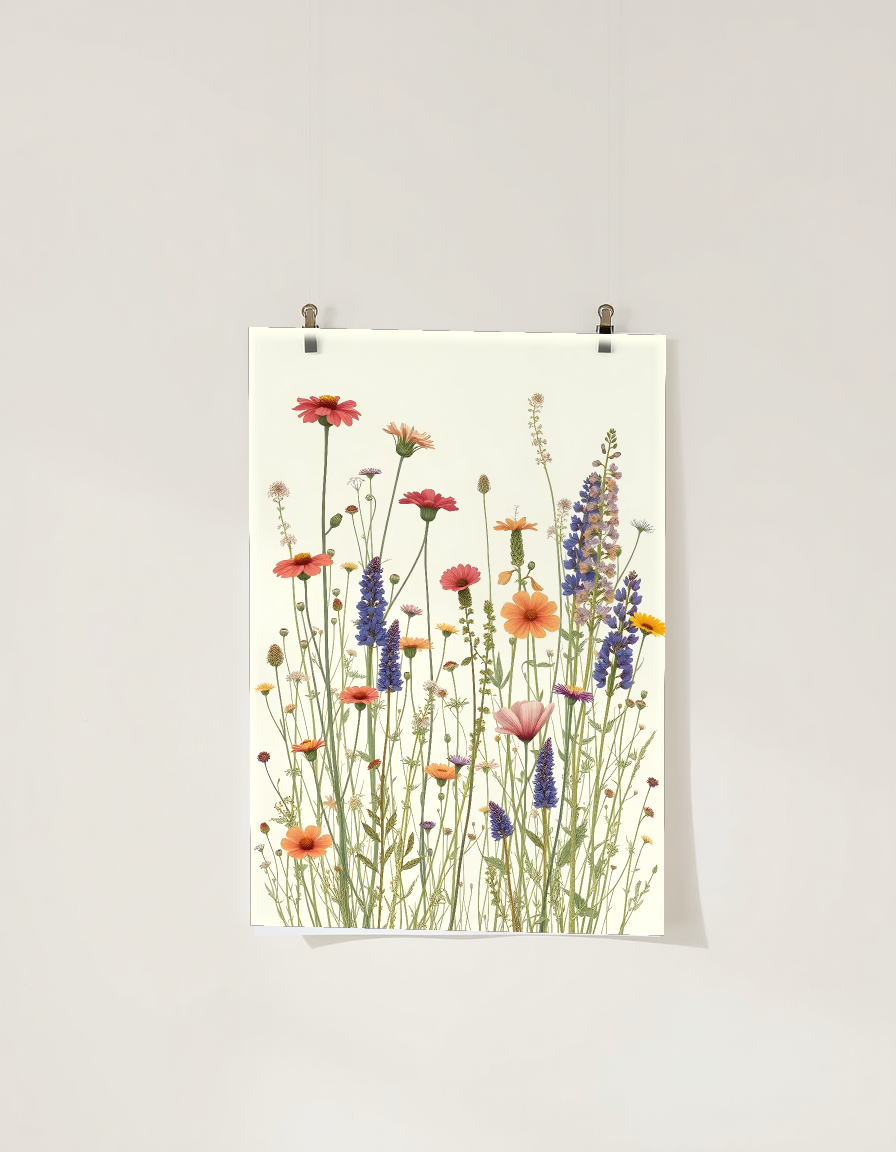
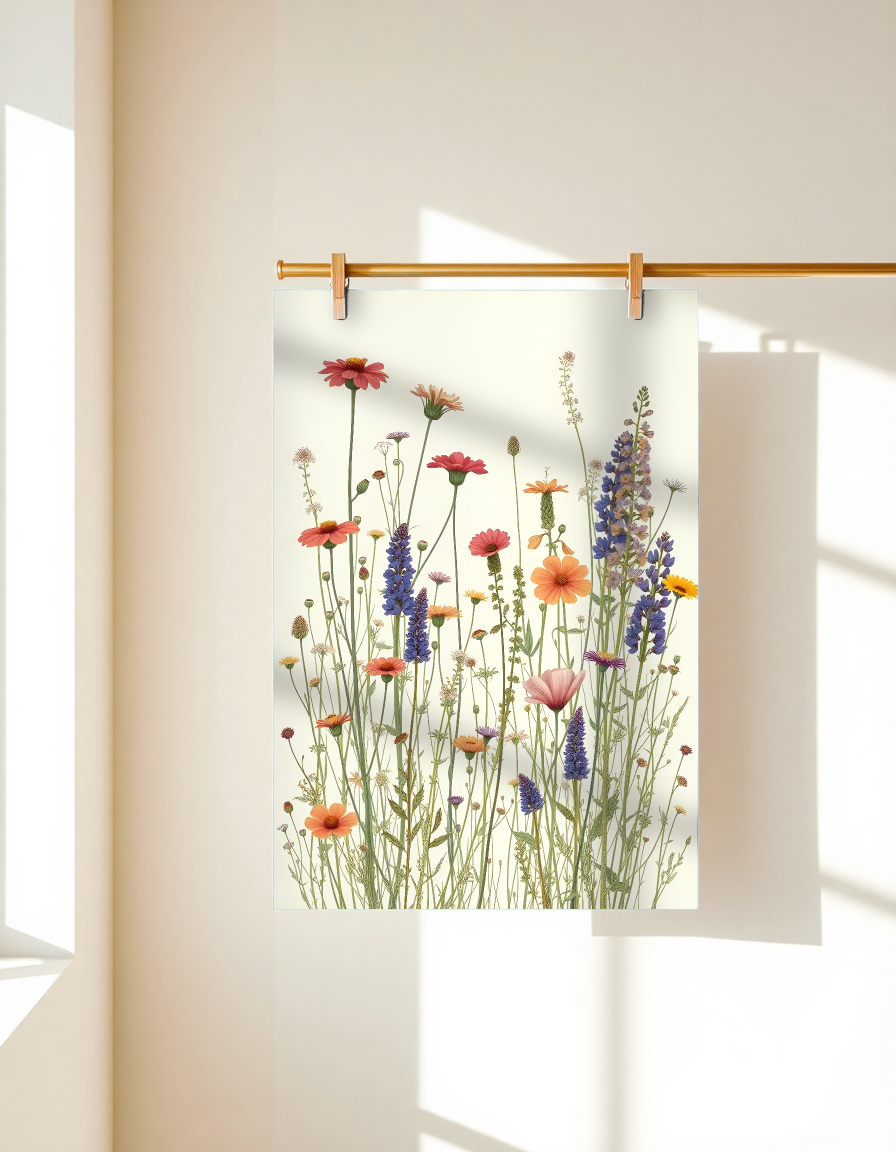
fix(gl6): the overlay was repainting the whole photograph - mask it, and gate it
Independent review of the GL-21/GL-6 attempt-3 session. The compositor work
(C1/C2/C3) reproduced exactly and needed no change; the four bundles it gated
did.

scene_author.py wrote overlay.png as black at alpha (1 - gain_map) over the full
frame. gain_map is a normalised convolution, so away from the panel its
numerator vanishes, g clamps to GAIN_FLOOR=0.55, and the overlay carried a flat
alpha of 115/255 across every pixel the print does not cover. Measured outside
the matte: 668k-775k px per scene changed by a mean of 67-94/255. Every cream
sunlit wall rendered grey, and a rounded-rect halo glowed around every print -
which is most of what the findings doc attributed to a FLUX "backing slab",
since it is on the two seeded scenes too, whose backgrounds are unchanged
attempt-1 photographs. A regression from this session: the same bundle's
attempt-1 overlay measures alpha mean 3.5 over 32% of the frame.

The gate could not see it because all six detectors measure the print. The
bundle owns three layers and the gate looked at one. 6/6 green while two thirds
of the frame was wrong; the full-frame review that should have caught the rest
was done against the composite, where the wash is plausible - it is only obvious
against background.png.

- scene_author.py: overlay alpha is (1 - g) * matte. The gain map only relights
  pixels the art covers, so outside the matte it has nothing to do. Fixed at the
  source, not in the assets.
[…]

diff --git a/scripts/mockup_qa.py b/scripts/mockup_qa.py
@@ -15,6 +15,10 @@ Six detectors, each aimed at a defect that shipped past a human review:
   silhouette-vs-shadow  the photographed object's silhouette and the print's
                       silhouette must not disagree *unevenly* - a constant
                       margin is styling, a bowing gap is a curled-paper mismatch
+  scene-fidelity      outside the print, the composite must still be the
+                      photograph. The other six all look at the print, and P3
+                      shipped four bundles whose overlay repainted ~700k px of
+                      *scene* per frame at 6/6 green
 
 `demo` re-runs every detector against a bundle that is known to carry its
 defect: a detector that cannot see a known defect is not a detector.
@@ -65,6 +69,12 @@ EDGE_MIN = 20.0         # Sobel magnitude that counts as a real photographic edg
 FLOATING_MAX = 0.10     # fraction of the print boundary allowed to sit on no edge at
                         # all (corners, occluder junctions). Derived mattes measure
                         # 0.00-0.03; every hand-drawn quad from attempts 1-2, 0.74-1.00.
+SCENE_TOL = 4           # 0-255 per-channel drift allowed outside the print. The
+                        # overlay is a rounding-free alpha composite over the
+                        # background, so a legitimate zero-alpha pixel drifts by 0.
+SCENE_BUDGET = 0.001    # x the outside-print area: the gain map is allowed to
+                        # feather a few px past the matte for contact shadow.
+                        # The defect this guards was 65% of the frame.
 COVERAGE_TOL = 0.0005   # fraction of the print area allowed to read as un-printed:
                         # an anti-aliased rim always leaves a few px indistinguishable
                         # from the background. Attempt 2's occluder notches were 5.1%.
@@ -316,8 +326,29 @@ def d_silhouette_vs_shadow(p: dict) -> dict:
                     f"(limit {FLOATING_MAX:.0%})")
 
 
+def d_scene_fidelity(p: dict) -> dict:
+    """Outside the print, the composite must still be the photograph.
+
+    The bundle owns three layers and only one of them is the print; the other
+    six detectors all measure the print, so nothing stopped an overlay from
+    repainting the scene. P3's did: `gain_map` is a normalised convolution whose
+    numerator vanishes away from the panel, so g clamped to its floor and the
+    overlay carried a full-frame black wash at alpha 115/255 - grey walls, a
+    rounded halo round every print, ~700k px per scene - through a 6/6 green
+    gate. Measured against the bare background, so it catches any future repaint
+    band, stamped prop or vignette, not just this one."""
+    outside = ~cv2.dilate(_print_region(p).astype(np.uint8),
+                          np.ones((5, 5), np.uint8)).astype(bool)
+    delta = np.abs(p["bare"] - p["bg"]).max(axis=2)
+    n = int((outside & (delta > SCENE_TOL)).sum())
+    budget = int(SCENE_BUDGET * max(outside.sum(), 1))
+    return _finding("scene-fidelity", n <= budget, n,
+                    f"{n} px of scene repainted outside the print "
+                    f"(max {delta[outside].max():.0f}/255, budget {budget})")
+
+
 DETECTORS = ["fringe", "key-spill", "distortion", "coverage",
-             "occluder-opacity", "silhouette-vs-shadow"]
+             "occluder-opacity", "silhouette-vs-shadow", "scene-fidelity"]
 
 
 def check(bundle_dir: Path, art: Image.Image) -> dict:
@@ -327,7 +358,7 @@ def check(bundle_dir: Path, art: Image.Image) -> dict:
     prov = bundle_dir / "scene.json"
     key = json.loads(prov.read_text()).get("key_rgb") if prov.exists() else None
     findings = [d_fringe(p), d_key_spill(p, key), d_distortion(p), d_coverage(p),
-                d_occluder_opacity(p), d_silhouette_vs_shadow(p)]
+                d_occluder_opacity(p), d_silhouette_vs_shadow(p), d_scene_fidelity(p)]
     return dict(scene=bundle.scene, dir=str(bundle_dir), findings=findings,
                 passed=all(f["passed"] for f in findings), parts=p)
 
@@ -440,7 +471,31 @@ def demo():
 
     ok &= _occluder_demo(art)
     ok &= _spill_demo()
+    ok &= _scene_fidelity_demo(art)
     return ok
+
+
+def _scene_fidelity_demo(art):
+    """P3's own defect, put back on a live bundle: `gain_map`'s normalised
+    convolution clamps to GAIN_FLOOR=0.55 away from the panel, so the overlay
+    shipped as a full-frame black wash at alpha 115/255 outside the matte."""
+    import shutil
+    import tempfile
+    src = ROOT / "assets" / "mockups" / "primary" / "portrait" / "flat_clips_windowlight"
+    tmp = Path(tempfile.mkdtemp()) / "bundle"
+    shutil.copytree(src, tmp)
+    clean = _run("scene-fidelity", tmp, art)
+    ov = np.array(Image.open(src / "overlay.png").convert("RGBA"))
+    matte = np.asarray(Image.open(src / "matte.png").convert("L"))
+    ov[:, :, 3] = np.where(matte > 128, ov[:, :, 3], 115)      # (1-GAIN_FLOOR)*255
+    Image.fromarray(ov, "RGBA").save(tmp / "overlay.png")
+    dirty = _run("scene-fidelity", tmp, art)
+    shutil.rmtree(tmp.parent, ignore_errors=True)
+    return _report("scene-fidelity", clean["passed"] and not dirty["passed"],
+                   "clips overlay unmasked",
+                   "the gain map written full-frame instead of matte-masked - a "
+                   "black wash over the whole photograph that 6/6 detectors missed",
+                   dirty["detail"])
 
 
 def _occluder_demo(art):

diff --git a/scripts/scene_author.py b/scripts/scene_author.py
@@ -247,8 +247,17 @@ def extract(image_path: Path, scene: str, tag: str, provenance: dict,
     Image.fromarray((matte * 255).round().astype(np.uint8)).save(d / "matte.png")
     # overlay = the gain map alone: black at (1-g) alpha. No repaint band, no
     # re-stamped props - both of those are the matte's job now.
+    #
+    # Masked by the matte, and that mask is not cosmetic. `gain_map` is a
+    # normalised convolution: far from the panel the numerator vanishes, so g
+    # clamps to GAIN_FLOOR and an unmasked overlay is a *full-frame* black wash
+    # at alpha (1-GAIN_FLOOR) = 115/255. It repainted ~700k px of photograph per
+    # scene, greyed every wall and drew a rounded halo around every print, and
+    # the gate could not see it because all six detectors looked at the print.
+    # The gain map only ever relights pixels the art covers, so outside the
+    # matte it has nothing to do. (Caught by the GL-21 review; d_scene_fidelity.)
     overlay = np.dstack([np.zeros((h, w, 3), np.uint8),
-                         ((1.0 - g) * 255).round().clip(0, 255).astype(np.uint8)])
+                         ((1.0 - g) * matte * 255).round().clip(0, 255).astype(np.uint8)])
     Image.fromarray(overlay, "RGBA").save(d / "overlay.png")
 
     aspect = mr.quad_aspect(quad)

diff --git a/docs/2026-07-26-gl21-gl6-attempt3-findings.md b/docs/2026-07-26-gl21-gl6-attempt3-findings.md
@@ -8,6 +8,11 @@ cherry-picked from it but ideas.
 **Recommendation: PR #2 is mergeable once the four bundles below are
 owner-approved.** Detail in §7.
 
+> **Superseded in part by §8 (independent review, 2026-07-28).** The four
+> bundles §5 declares QA-green shipped a defect that repainted ~700 k px of
+> *photograph* per scene. Fixed; re-authored; the gate now has a seventh
+> detector. §7's recommendation stands only as amended in §8.
+
 ---
 
 ## 1. P1 — the compositor (GL-21)
@@ -302,3 +307,151 @@ Two things the owner should decide before or alongside the merge:
 - The screen is a **ranker**, not the gate. Two of the four shipped scenes failed
   it on a marginal check (`frontal` 0.065 vs. a 0.06 limit; `sharp` on a soft
   edge) and passed the real gate cleanly once extracted.
+
+---
+
+## 8. Independent review pass (2026-07-28)
+
+A review of this session, run against the branch as committed at `8532825`.
+Everything §1–§6 claims about the compositor reproduced exactly: 517/517 green,
+`mockup_qa.py check` 4/4 PASS, `mockup_qa.py demo` 6/6 FIRED exit 0,
+`gl19_m1_render.py` 4/4 with the four sha256 prefixes §5 records. The GL-21
+compositor work needed no change.
+
+The bundles did.
+
+### 8.1 The defect: the overlay was repainting the whole photograph
+
+`scene_author.py` wrote `overlay.png` as `black at alpha (1 - gain_map)`, over
+the **full frame**. `gain_map` is a normalised convolution — `blur(lum·m) /
+blur(m)` — so away from the panel the numerator vanishes, `g` clamps to
+`GAIN_FLOOR = 0.55`, and the overlay carries a flat alpha of
+`(1 - 0.55) · 255 = 115` across every pixel the print does not cover.
+
+Measured outside the print matte, on the four shipped bundles:
+
+| scene | mean overlay alpha | mean colour delta | px changed |
+|---|---|---|---|
+| flat_clips_windowlight | 102.2 | 86.8 | 727 093 |
+| flat_leaning_bookstack | 100.6 | 83.6 | 668 729 |
+| lifestyle_bedroom_console | 109.1 | 67.1 | 724 487 |
+| lifestyle_shelf_books | 107.7 | 94.2 | 775 336 |
+
+Roughly 65–75 % of each frame, at a quarter to a third of full range. Visibly:
+every cream sunlit wall rendered grey, the warm bedroom rendered murky, and a
+rounded-rectangle halo glowed around every print.
+
+Two things this explains, which §5 and §7 attribute elsewhere:
+
+- The "**backing-slab look**" of §7.1 is mostly this halo. It is on all four
+  scenes, including the two *seeded* ones whose `background.png` is an unchanged
+  attempt-1 photograph — so it cannot be a FLUX prompting artefact, and it is not
+  a scene-selection choice. A residual real slab does exist on the keyed scenes;
+  it is much smaller than the composites suggested.
+- It is a **regression introduced by this session**. The same bundle's attempt-1
+  overlay measures alpha mean 3.5 over 32 % of the frame; attempt 3's measures
+  71.3 over 99.7 %.
+
+### 8.2 Why the gate did not see it
+
+All six detectors measure the print: its border, its key residue, its aspect,
+its coverage, its holes, its silhouette. The bundle owns three layers and the
+gate only ever looked at one of them. 6/6 green while two thirds of the frame
+was wrong.
+
+`§5`'s own conclusion — *"the metrics catch geometry, the eye catches colour at
+the seam"* — held, and then the full-frame check that was supposed to catch the
+rest was performed on the composite alone. Against the composite the wash is
+plausible: it looks like the scene's own lighting. It is only obvious against
+`background.png`. **A full-frame review of a composite is not a review of the
+bundle; the bare scene has to be in the frame next to it.**
+
+### 8.3 The fixes
+
+**(1) `scene_author.py` — mask the gain map by the matte.**
+
+```python
+overlay = np.dstack([np.zeros((h, w, 3), np.uint8),
+                     ((1.0 - g) * matte * 255).round().clip(0, 255).astype(np.uint8)])
+```
+
+The gain map only ever relights pixels the art covers, so outside the matte it
+has nothing to do. One term, at the source, not in the assets — the standing
+rule applied to the authoring tool as well as to the compositor.
+
+**(2) `mockup_qa.py` — a seventh detector, `scene-fidelity`.**
+
+Outside the print (dilated 5 px for the anti-aliased rim and a few px of contact
+shadow), the bare composite must equal `background.png` within `SCENE_TOL = 4`,
+budget `SCENE_BUDGET = 0.001` of the outside area. Measured against the
+background, so it also catches any future repaint band, stamped prop or vignette
+— not just this one. Its `demo` case puts the defect back on a live bundle by
+unmasking the overlay: **766 362 px against a 766 px budget**, a 1000× margin.
+
+### 8.4 Re-authoring, and what it proves
+
+All four bundles were re-derived by re-running `scene_author.py extract` from
+the sources `scene.json` records — the two FLUX scenes from
+`outputs/gl6_keyed*/`, the two seeded ones from their attempt-1 photographs plus
+the recorded seed polygon.
+
+**`background.png`, `matte.png`, `meta.json` and `scene.json` came back
+byte-identical on all four; only `overlay.png` changed.** That is the P2 design
+goal — zero per-scene constants — demonstrated rather than asserted: the
+bundles are a pure function of their source image plus the tool, and a defect
+found in the tool costs one command per scene to re-issue, not a re-authoring
+session.
+
+After:
+
+```
+flat_clips_windowlight     size=(896,1152) sha256=aac4dad68e13
+flat_leaning_bookstack     size=(896,1152) sha256=10f224b6430e
+lifestyle_bedroom_console  size=(896,1152) sha256=fd7c742e84f6
+lifestyle_shelf_books      size=(896,1152) sha256=455652e23689
+
+4/4 scenes rendered, deterministic, size-checked OK.
+```
+
+Gate 7/7 PASS on all four (`scene-fidelity` reads **0 px** repainted, max 0/255,
+on every scene — the mask is exact, not merely within budget). `demo` 7/7 FIRED,
+exit 0. Suite unchanged at 517 green: the fix is authoring-time, and
+`pipeline/mockup_render.py` was not touched.
+
+Full-frame and zoom review, both, on all four re-renders: walls are the
+photograph's own colour again, no halo, corners and 1-px edge strips clean, no
+green residue on either keyed scene.
+
+### 8.5 Two other findings from the same pass
+
+- **Scope leak into PR #2.** `a5dfde7` (the shelf-scene commit) also carries
+  `scripts/qops_phase0.py` and `scripts/qops_phase1.py` — 617 lines of
+  ways-of-working tooling with nothing to do with GL-21 or GL-6 — and `b17ad23`
+  rewrites `docs/2026-07-22-go-live-plan-of-attack.md` (+272 lines). Neither
+  belongs in a mockup-compositor PR. Strip both before opening it.
+- **`MASTER_ASPECT = 6656 / 9728` is a sample's pixel ratio standing in for a
+  product constant** (`scene_author.py:43`, taken from `db/base_artwork/39.png`).
+  Every portrait master on disk measures 0.6842, so it holds today, and
+  non-primary groups skip mockups entirely (`group_product.py:347`), so the
+  5x7/10x24 crops cannot reach it. But a master at any other ratio trips C3's
+  2 % guard and fails the whole candidate loud. Worth deriving from the
+  generator's configured aspect rather than from one file, whenever P4 touches
+  this.
+
+### 8.6 Amended recommendation
+
+The §7 gate list is otherwise intact and now reads:
+
+- the compositor defect GL-19 surfaced is fixed at source and covered by a test;
+- the *authoring* defect this review surfaced is fixed at source and covered by
+  a detector with a demonstrated 1000× margin;
+- all four bundles pass a **seven**-detector gate, a full-frame review **against
+  the bare scene**, and a zoom review, and are within 0.01 % of the master's
+  aspect;
+- harness 4/4, deterministic and size-checked; 517/517; the pipeline contract
+  and `pipeline/group_product.py` unchanged; no Etsy or Gelato call made.
+
+**Merge once the four re-rendered scenes are owner-approved**, with the two
+scope-leak files stripped from the branch. The open questions §7 raises — the
+residual backing slab on the keyed scenes, and the set having no framed-on-wall
+lifestyle scene — are unchanged and still P4's.

diff --git a/docs/SPEC_v4.10_addendum_custom_mockups.md b/docs/SPEC_v4.10_addendum_custom_mockups.md
@@ -66,10 +66,15 @@ silent fall-back to a Gelato image.
   `overfill` stays in the schema but is **deprecated for matte bundles**
   (authored `0.0`): the quad is derived as the min-area quad of the matte
   expanded on the short axis to the master's aspect, so the matte trims the
-  anti-aliased edge instead. `scripts/mockup_qa.py` gates authoring with six
+  anti-aliased edge instead. `scripts/mockup_qa.py` gates authoring with seven
   detectors (fringe, key-spill, distortion, coverage, occluder-opacity,
-  silhouette-vs-shadow) plus a contact sheet; owner review sees only what
-  passes. See `docs/2026-07-26-gl6-attempt3-production-readiness-plan.md`.
+  silhouette-vs-shadow, scene-fidelity) plus a contact sheet; owner review sees
+  only what passes. **`overlay.png` may only paint where the print is**: it
+  carries the gain map and nothing else, masked by the matte. `scene-fidelity`
+  enforces it — the first six all measure the print, and a full-frame overlay
+  wash shipped through them 6/6 green (see the GL-21 review pass in
+  `docs/2026-07-26-gl21-gl6-attempt3-findings.md` §8).
+  See `docs/2026-07-26-gl6-attempt3-production-readiness-plan.md`.
 - Template library is **static config**, resolved once, never discovered at
   runtime (consistent with the Gelato template-ID / static-config rule).
 - Etsy allows **20 images/listing** (since Aug 2025); we use ~10. Upload is

diff --git a/CLAUDE.md b/CLAUDE.md
@@ -67,9 +67,11 @@ pipeline stage — don't guess at behavior that's already specified.
   bundle decides what is *visible* (the quad only decides where the art is
   *projected*) and absent ⇒ pre-GL-21 behaviour; the artwork is cover-cropped
   to the quad's aspect and a crop over 2 % fails loud — never stretch a print a
-  buyer pays for. `overfill` is deprecated for matte bundles. Authoring is
-  gated by `scripts/mockup_qa.py` (six detectors + contact sheet) before any
-  owner review; `load_bundle`/`render_scene`/the bundle-on-disk contract are
+  buyer pays for. `overfill` is deprecated for matte bundles, and **`overlay.png`
+  may only paint where the print is** (it carries the matte-masked gain map and
+  nothing else — an unmasked one is a full-frame wash). Authoring is gated by
+  `scripts/mockup_qa.py` (seven detectors + contact sheet) before any owner
+  review; `load_bundle`/`render_scene`/the bundle-on-disk contract are
   unchanged. See docs/SPEC_v4.10_addendum_custom_mockups.md §2.
 - **Aspect-ratio-group review flow (the core mechanic — see spec section
   3, steps 6–7):**
